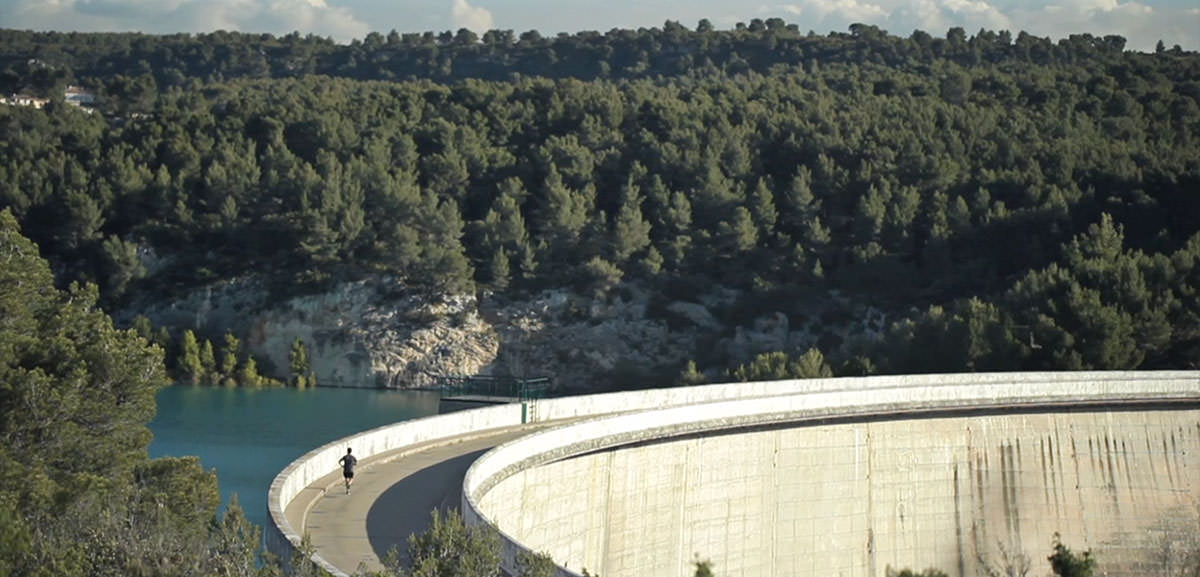
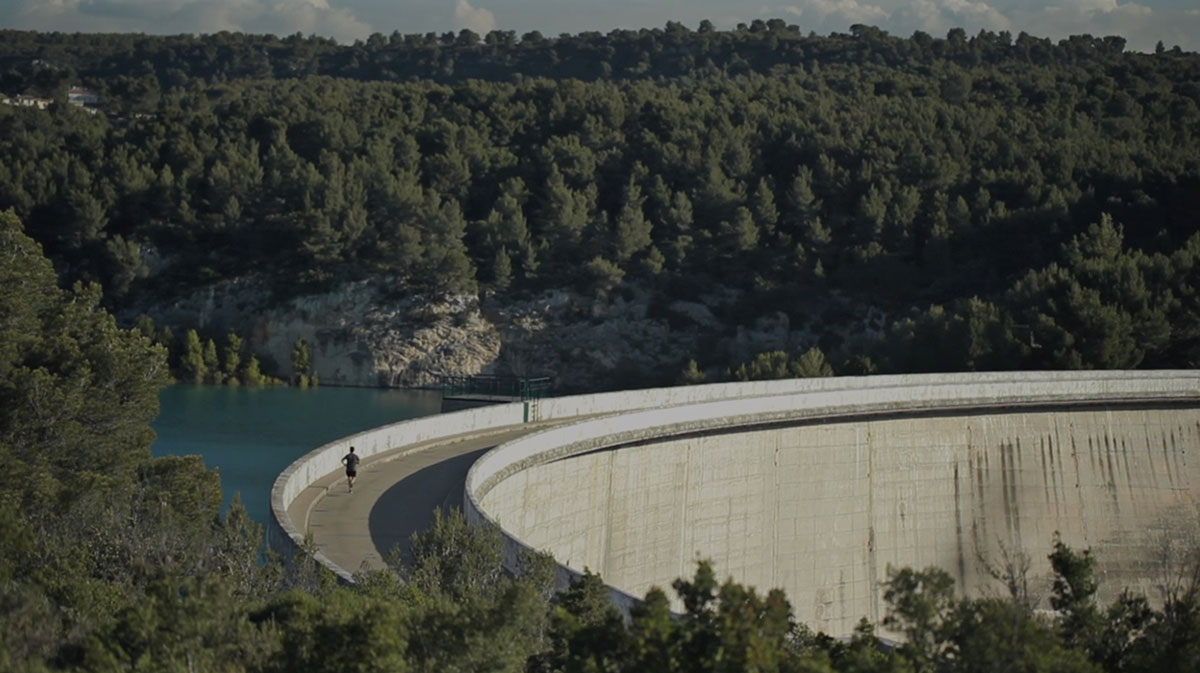
playing with video design

diff --git a/rockpack/mainsite/static/assets/front/front.less b/rockpack/mainsite/static/assets/front/front.less
@@ -206,7 +206,7 @@ body {
   cursor:pointer;
   color: #fff;
   background: url(/static/assets/front/images/video.jpg?v=1) no-repeat 50% 50%;
-  height: 450px;
+  height: 675px;
 
   &:hover {
     #play {

diff --git a/rockpack/mainsite/static/weblight/views/videoplayer.html b/rockpack/mainsite/static/weblight/views/videoplayer.html
@@ -23,4 +23,4 @@
       </div>
     </div>
   </div>
-</div>
+</div>                 #video
